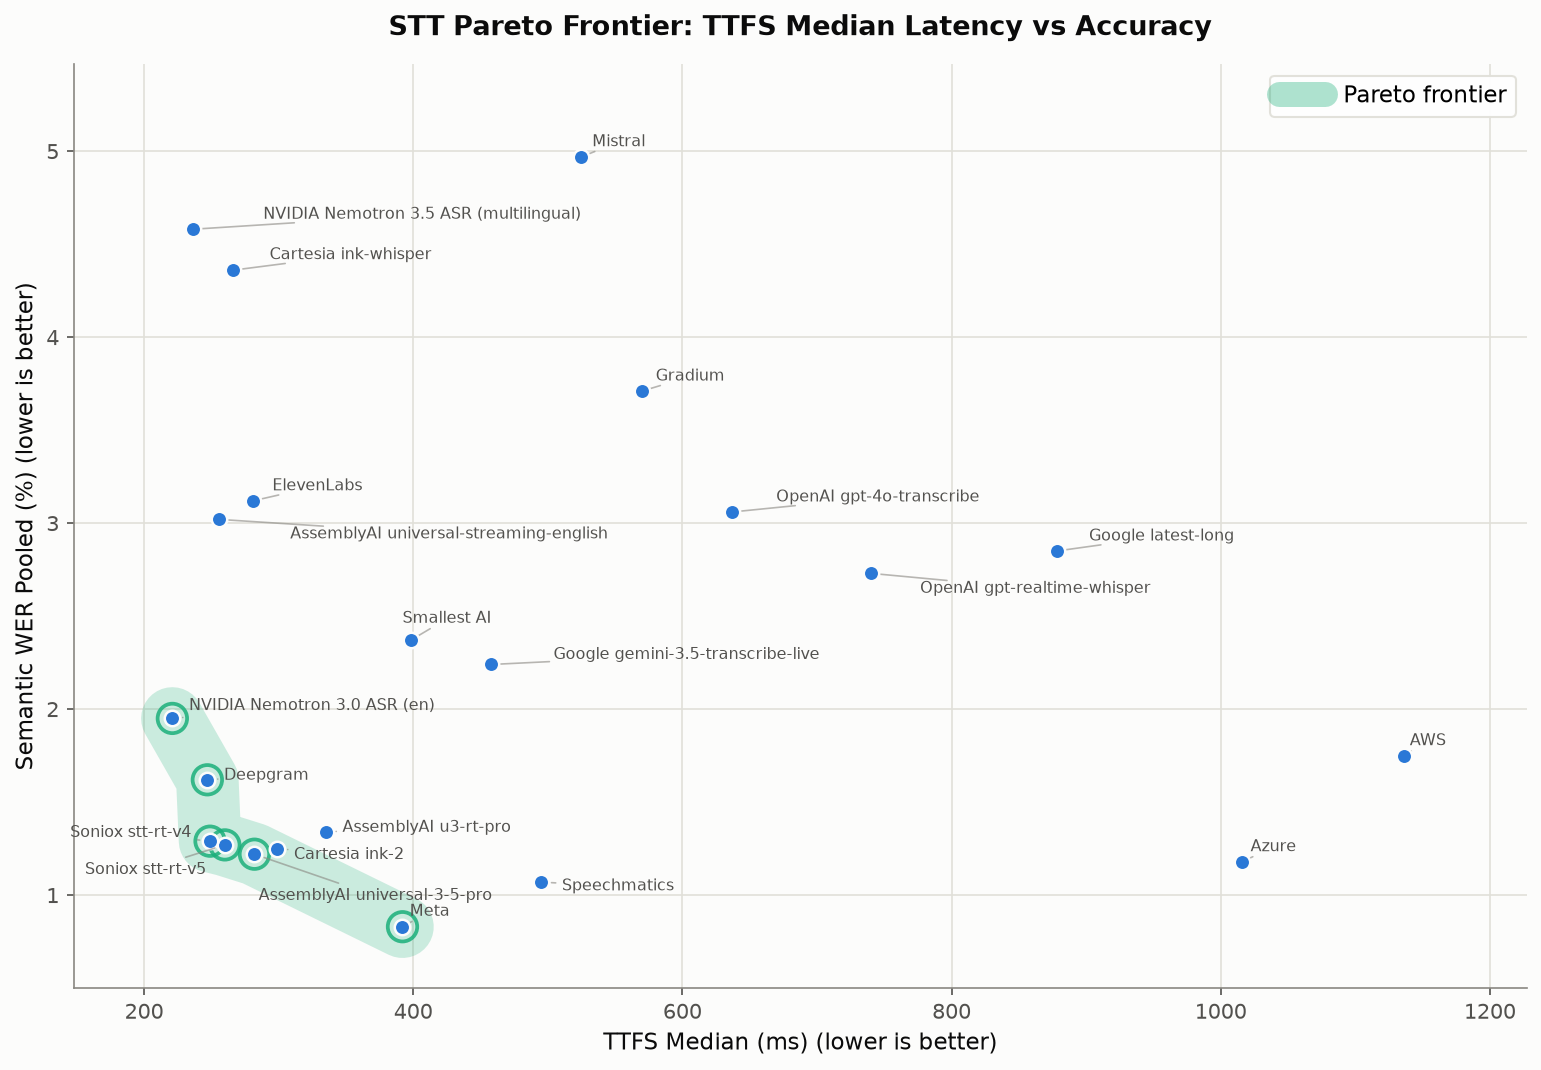
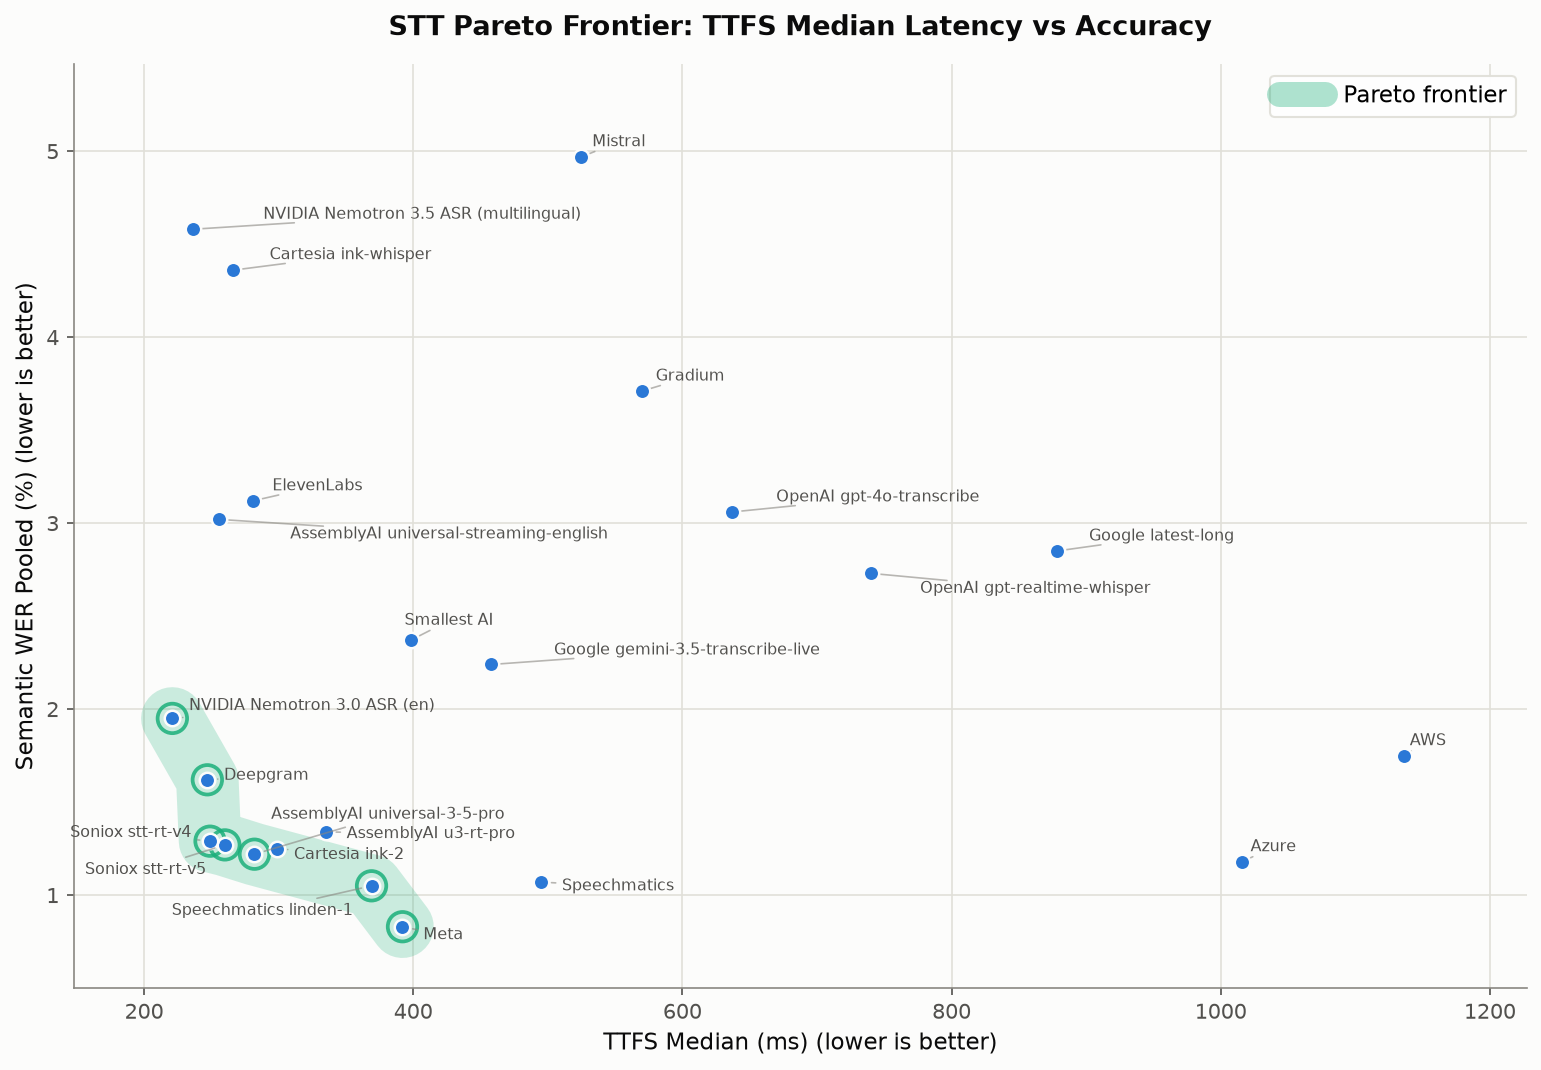
Add Speechmatics Agent STT service and benchmark results
Bump pipecat-ai to >=1.10.0, where SpeechmaticsSTTService targets the
Speechmatics Agent STT endpoint (/v2/agent) via the speechmatics-agent-stt
SDK and can no longer connect to the legacy real-time endpoint.

- Add speechmatics_agent_stt (model linden-1, server-side VAD turn
  detection) and mark the legacy speechmatics entry is_current=False.
- Add its 1000-sample row to the README results table and regenerate
  the Pareto and latency-range charts.
- Hand-place a few frontier labels that collided around the new point.
- Note in env.example that SPEECHMATICS_RT_URL must be an Agent STT URL.

Claude-Session: https://claude.ai/code/session_01VGPEub7yiG5UH6k6Btngs1

Changed region(s): [[0.1246, 0.7402, 0.3426, 0.8944], [0.3426, 0.586, 0.5295, 0.6168], [0.2492, 0.5551, 0.3115, 0.586]]

diff --git a/src/stt_benchmark/services.py b/src/stt_benchmark/services.py
@@ -502,12 +502,29 @@ def create_soniox_stt_rt_v5() -> FrameProcessor:
     )
 
 
+# Legacy real-time endpoint (/v2), driven by Pipecat's VAD. Benchmarked on
+# pipecat-ai <1.10; since 1.10.0 SpeechmaticsSTTService only speaks to the
+# Agent STT endpoint, so this entry no longer connects. Kept for the record.
 def create_speechmatics() -> FrameProcessor:
     from pipecat.services.speechmatics.stt import SpeechmaticsSTTService, TurnDetectionMode
 
     return SpeechmaticsSTTService(
         api_key=_get_env("SPEECHMATICS_API_KEY"),
         base_url=os.getenv("SPEECHMATICS_RT_URL", "wss://us.rt.speechmatics.com/v2"),
+        settings=SpeechmaticsSTTService.Settings(
+            language=Language.EN,
+            turn_detection_mode=TurnDetectionMode.EXTERNAL,
+        ),
+    )
+
+
+# Speechmatics Agent STT (/v2/agent, model linden-1): supersedes the legacy entry above.
+def create_speechmatics_agent_stt() -> FrameProcessor:
+    from pipecat.services.speechmatics.stt import SpeechmaticsSTTService, TurnDetectionMode
+
+    return SpeechmaticsSTTService(
+        api_key=_get_env("SPEECHMATICS_API_KEY"),
+        base_url=os.getenv("SPEECHMATICS_RT_URL", "wss://us.rt.speechmatics.com/v2/agent"),
         settings=SpeechmaticsSTTService.Settings(
             language=Language.EN,
             turn_detection_mode=TurnDetectionMode.EXTERNAL,
@@ -736,6 +753,13 @@ STT_SERVICES: dict[str, ServiceDefinition] = {
         factory=create_speechmatics,
         vendor="Speechmatics",
         model_label="N/A",
+        required_env_vars=["SPEECHMATICS_API_KEY"],
+        is_current=False,  # superseded by speechmatics_agent_stt
+    ),
+    "speechmatics_agent_stt": ServiceDefinition(
+        factory=create_speechmatics_agent_stt,
+        vendor="Speechmatics",
+        model_label="linden-1",
         required_env_vars=["SPEECHMATICS_API_KEY"],
     ),
     "whisper": ServiceDefinition(

diff --git a/scripts/pareto-frontier-plot.py b/scripts/pareto-frontier-plot.py
@@ -45,10 +45,12 @@ DEFAULT_LABEL_OFFSETS = {
         "Deepgram": (8, 2, "left"),
         "Soniox stt-rt-v4": (-9, 4, "right"),
         "Soniox stt-rt-v5": (-9, -12, "right"),
-        "AssemblyAI universal-3-5-pro": (2, -20, "left"),
+        "AssemblyAI universal-3-5-pro": (8, 19, "left"),
         "Cartesia ink-2": (8, -3, "left"),
-        "AssemblyAI u3-rt-pro": (8, 2, "left"),
+        "AssemblyAI u3-rt-pro": (10, -1, "left"),
         "Speechmatics": (10, -2, "left"),
+        "Speechmatics linden-1": (-9, -12, "right"),
+        "Meta": (10, -4, "left"),
     },
 }
 

diff --git a/src/stt_benchmark/models.py b/src/stt_benchmark/models.py
@@ -44,6 +44,7 @@ class ServiceName(StrEnum):
     SARVAM_SAARAS_V3 = "sarvam_saaras_v3"
     SMALLEST = "smallest"
     SPEECHMATICS = "speechmatics"
+    SPEECHMATICS_AGENT_STT = "speechmatics_agent_stt"
     SONIOX = "soniox"
     SONIOX_STT_RT_V5 = "soniox_stt_rt_v5"
     WHISPER = "whisper"

diff --git a/README.md b/README.md
@@ -30,6 +30,7 @@ Benchmark results on 1000 samples from the `pipecat-ai/smart-turn-data-v3.1-trai
 | Smallest AI | pulse | 100.0% | 72.4% | 2.30% | 2.37% | 398ms | 533ms | 1593ms |
 | Soniox | stt-rt-v5 | 99.8% | 83.3% | 1.34% | 1.27% | 260ms | 305ms | 313ms |
 | Soniox | stt-rt-v4 | 99.8% | 84.1% | 1.25% | 1.29% | 249ms | 281ms | 310ms |
+| Speechmatics | linden-1 | 99.5% | 84.5% | 1.21% | 1.05% | 369ms | 438ms | 690ms |
 | Speechmatics | N/A | 99.7% | 83.2% | 1.40% | 1.07% | 495ms | 676ms | 736ms |
 <!-- RESULTS_TABLE:END -->
 
